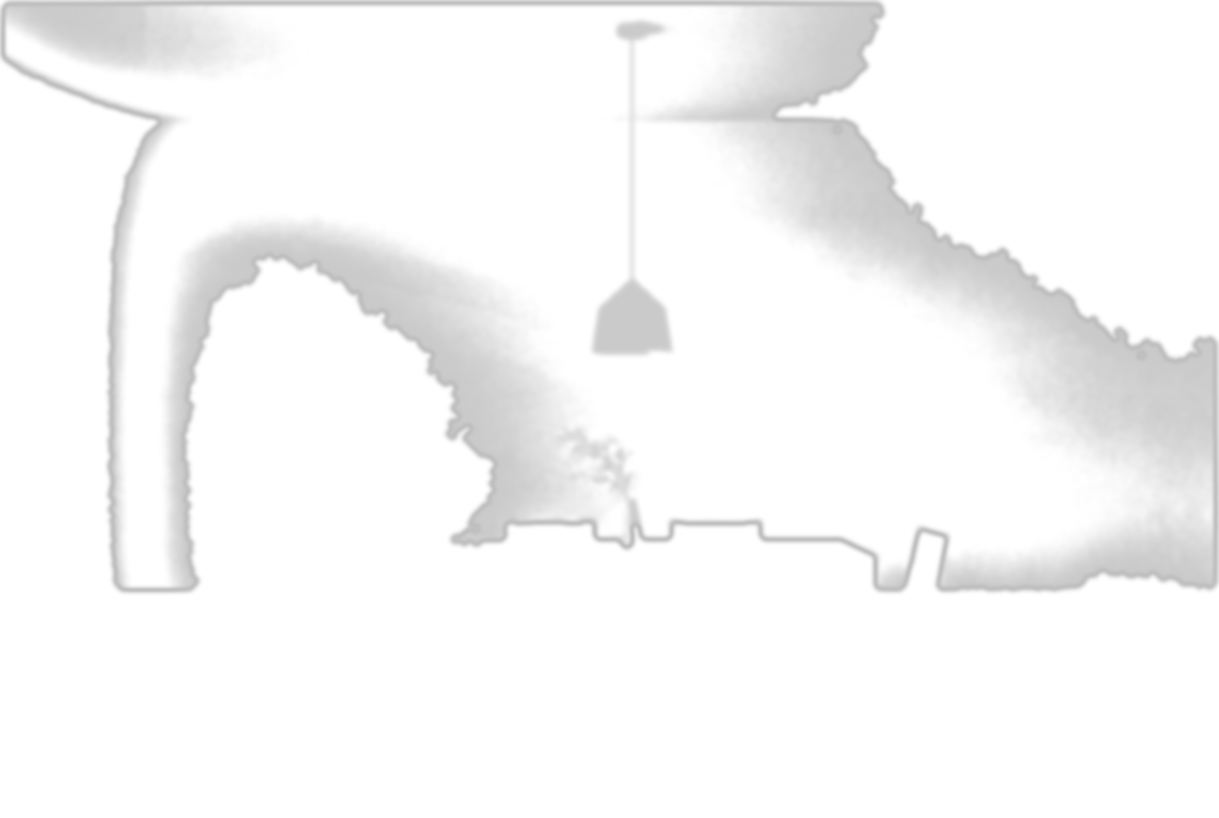
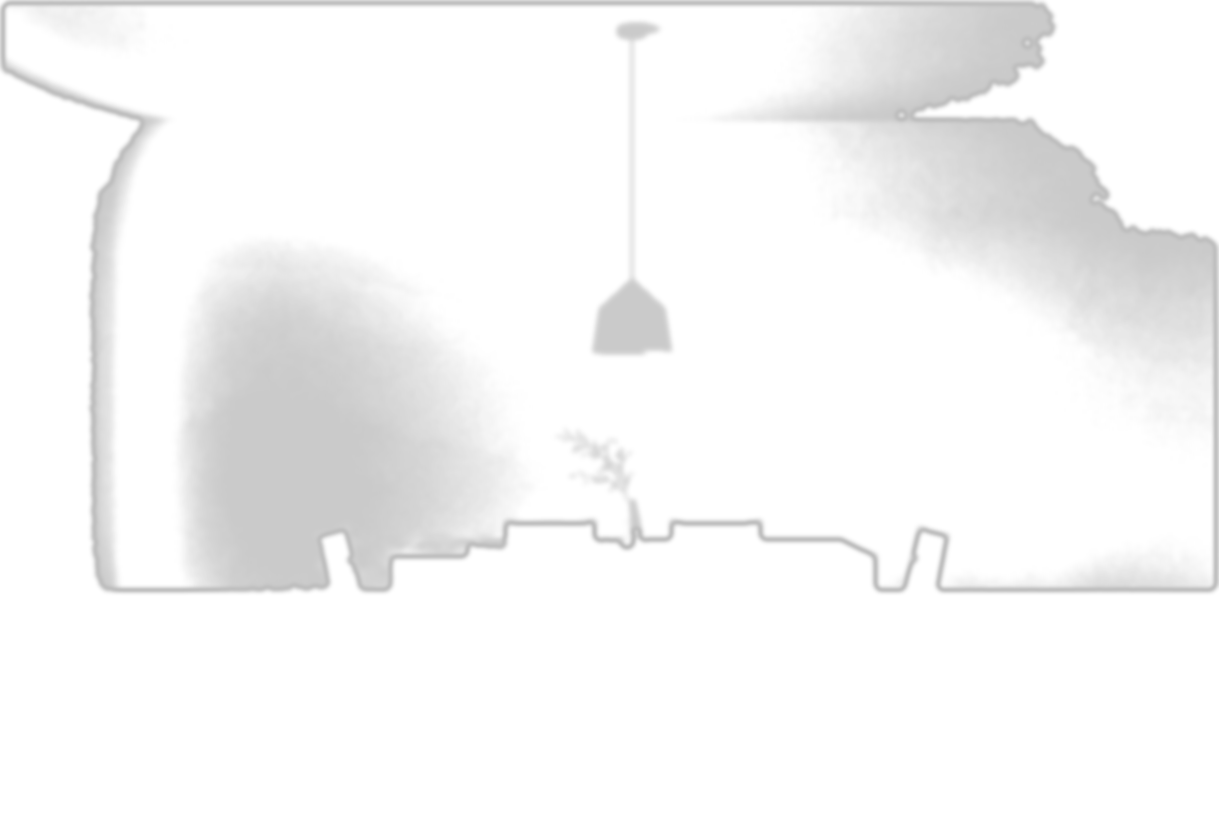
Visualiser masks: refine all 12 rooms
Per-room QA pass over every room photo. The big wins:

- Size-aware hole filling: previous binary_fill_holes was treating
  windows surrounded by wall as 'interior holes' and plugging them,
  causing the recolour to bleed onto trees / sky visible through
  glass. Replaced with a connected-component pass that fills only
  holes < 4% of image area. Picture frames and lamp halos still get
  filled (correct); windows and doorways stay open (correct).

- Bumped dist on rooms with bright lamp/sun halos that were leaving
  large unpainted patches: bedroom-soft (44→95), bathroom (44→72),
  dining (46→64), kitchen-island (44→95), kitchen-warm (60→82),
  bedroom-suite (40→70), child (44→64), living-warm (50→58).

- Tightened dist on rooms prone to bleed: office (50→38) so the
  window doesn't get sucked into the wall blob.

- Re-seeded several rooms onto better wall samples: bedroom-soft
  (0.78→0.30 — onto the brighter centre), kitchen-warm (top of wall),
  child (0.45→0.35 — onto a more representative cream patch).

Result: living-modern, living-warm, bedroom-soft, dining, bathroom,
hallway, office, child, exterior all paint cleanly. Bedroom-suite has
minor curtain bleed (curtain ≈ wall colour — known hard case).
Kitchen-warm has a sunlit centre gap (extreme dynamic range across
the wall — hard limit of seed-distance approach).

Changed region(s): [[0.0, 0.0, 0.4676, 0.7335], [0.5299, 0.0, 1.0, 0.7335], [0.717, 0.7029, 0.7482, 0.7335]]

diff --git a/images/rooms/_make_wall_masks.py b/images/rooms/_make_wall_masks.py
@@ -18,16 +18,16 @@ ROOMS_DIR = os.path.dirname(os.path.abspath(__file__))
 # binary_fill_holes downstream to plug interior holes. Tighter than v3.
 ROOMS = {
     'room-living-modern':  dict(seed=(0.50, 0.20), dist=54, floor=0.75, top=0.00),
-    'room-living-warm':    dict(seed=(0.55, 0.15), dist=50, floor=0.55, top=0.00),
-    'room-bedroom-soft':   dict(seed=(0.78, 0.18), dist=44, floor=0.55, top=0.00),
-    'room-bedroom-suite':  dict(seed=(0.70, 0.18), dist=40, floor=0.62, top=0.00),
-    'room-kitchen-island': dict(seed=(0.50, 0.20), dist=44, floor=0.45, top=0.00),
-    'room-kitchen-warm':   dict(seed=(0.50, 0.20), dist=60, floor=0.55, top=0.00),
-    'room-dining':         dict(seed=(0.50, 0.30), dist=46, floor=0.72, top=0.00),
-    'room-bathroom':       dict(seed=(0.55, 0.18), dist=44, floor=0.62, top=0.00),
-    'room-hallway':        dict(seed=(0.75, 0.30), dist=50, floor=0.78, top=0.00),
-    'room-office':         dict(seed=(0.72, 0.20), dist=50, floor=0.62, top=0.00),
-    'room-child':          dict(seed=(0.45, 0.18), dist=44, floor=0.62, top=0.00),
+    'room-living-warm':    dict(seed=(0.55, 0.15), dist=58, floor=0.55, top=0.00),
+    'room-bedroom-soft':   dict(seed=(0.30, 0.18), dist=95, floor=0.55, top=0.00),
+    'room-bedroom-suite':  dict(seed=(0.70, 0.18), dist=70, floor=0.62, top=0.00),
+    'room-kitchen-island': dict(seed=(0.30, 0.20), dist=95, floor=0.50, top=0.00),
+    'room-kitchen-warm':   dict(seed=(0.55, 0.08), dist=82, floor=0.55, top=0.00),
+    'room-dining':         dict(seed=(0.50, 0.30), dist=64, floor=0.72, top=0.00),
+    'room-bathroom':       dict(seed=(0.55, 0.15), dist=72, floor=0.62, top=0.00),
+    'room-hallway':        dict(seed=(0.75, 0.22), dist=46, floor=0.70, top=0.00),
+    'room-office':         dict(seed=(0.72, 0.25), dist=38, floor=0.58, top=0.00),
+    'room-child':          dict(seed=(0.35, 0.22), dist=64, floor=0.62, top=0.00),
     'room-exterior':       dict(seed=(0.50, 0.45), dist=68, floor=0.80, top=0.05),
 }
 
@@ -72,10 +72,25 @@ def make_mask(im, p, slug):
         seed_label = int(np.argmax(sizes)) + 1
     keep = (labeled == seed_label)
 
-    # Fill any internal holes inside the wall blob — picture frames,
-    # mirrors, lights and other in-wall objects were leaving black
-    # gaps in the mask. This plugs them so the recolour is solid.
-    keep = ndi.binary_fill_holes(keep)
+    # Fill SMALL internal holes inside the wall blob — picture frames,
+    # mirrors, lights, lamp halos. Skip large holes so windows and
+    # doorways stay as openings (otherwise the recolour bleeds onto
+    # whatever's visible through them).
+    inv_lab, n_inv = ndi.label(~keep)
+    # Any background component touching the image border is the real
+    # outside, not a hole.
+    border = set()
+    border.update(np.unique(inv_lab[0, :]).tolist())
+    border.update(np.unique(inv_lab[-1, :]).tolist())
+    border.update(np.unique(inv_lab[:, 0]).tolist())
+    border.update(np.unique(inv_lab[:, -1]).tolist())
+    border.discard(0)
+    max_hole_px = 0.04 * h * w   # 4% of the image — windows are much bigger
+    sizes = ndi.sum(np.ones_like(inv_lab), inv_lab, range(1, n_inv + 1))
+    for lab in range(1, n_inv + 1):
+        if lab in border:        continue
+        if sizes[lab - 1] > max_hole_px: continue
+        keep[inv_lab == lab] = True
 
     # Slightly dilate the final mask so soft edges blend cleanly past
     # the wall boundary instead of stopping a pixel short.
